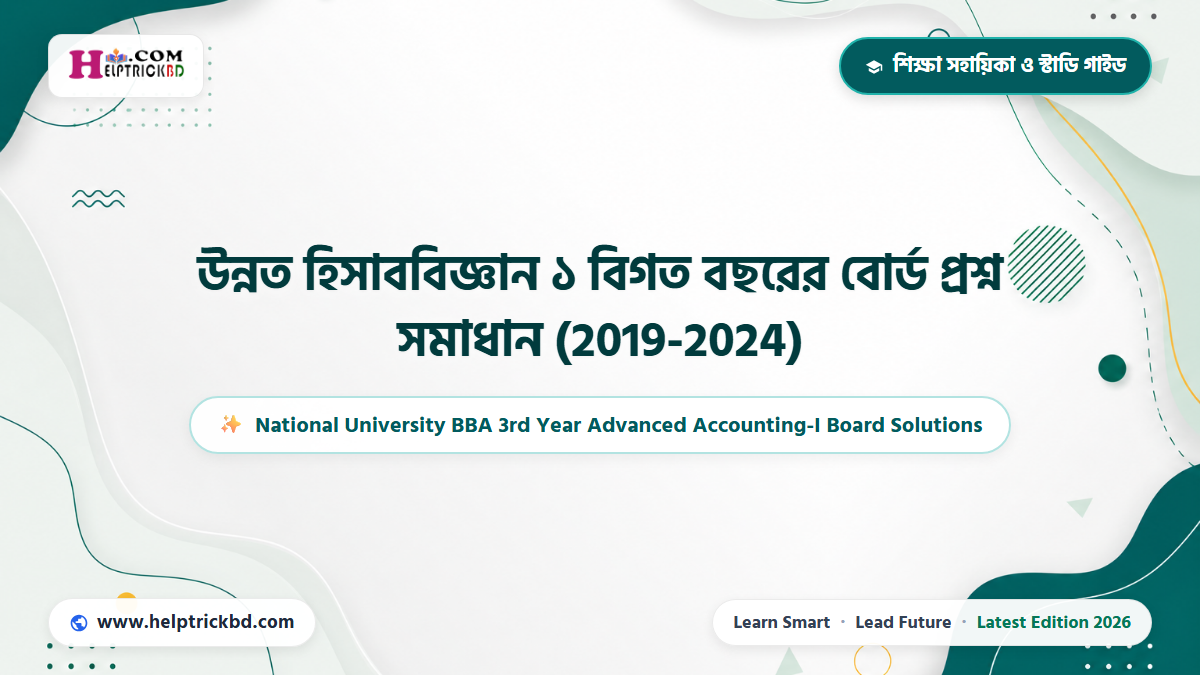
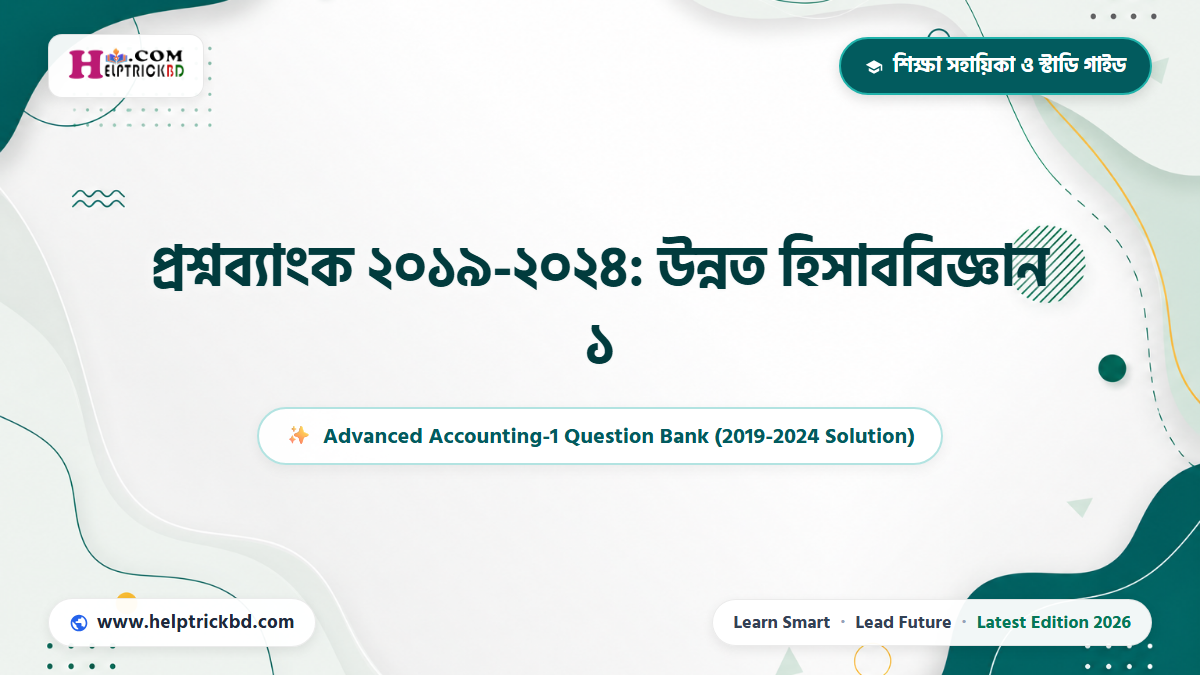
feat(seo): update Post 2 title to bilingual question bank with high-rank keyword cluster & deploy to WordPress

Changed region(s): [[0.1233, 0.3422, 0.8942, 0.4356], [0.185, 0.5911, 0.8325, 0.6844], [0.3083, 0.4667, 0.6783, 0.56]]

diff --git a/tools/post_builders/generate_adv_accounting_pair.py b/tools/post_builders/generate_adv_accounting_pair.py
@@ -991,9 +991,9 @@ def generate_post_2_board_questions():
     board_dir = os.path.join(PUB_BOOKS_BASE, "board")
     years = ["2024", "2023", "2022", "2021", "2020", "2019"]
     
-    focus_kw = "উন্নত হিসাববিজ্ঞান ১ বিগত বছরের বোর্ড প্রশ্ন"
-    seo_title = "উন্নত হিসাববিজ্ঞান ১ বিগত বছরের বোর্ড প্রশ্ন সমাধান (2019-2024): Best Solution Guide"
-    banner_url = "https://cdn.jsdelivr.net/gh/omarfarukitbd-spec/helptrickbdseo@main/assets/images/thumbnails/adv_accounting_1_board_banner.webp"
+    focus_kw = "প্রশ্নব্যাংক ২০১৯-২০২৪: উন্নত হিসাববিজ্ঞান ১"
+    seo_title = "প্রশ্নব্যাংক ২০১৯-২০২৪: উন্নত হিসাববিজ্ঞান ১ (Advanced Accounting 1 Question Bank 2026): Best Complete Solution"
+    banner_url = "https://www.helptrickbd.com/wp-content/uploads/2026/11/adv_accounting_1_board_banner-1.webp"
     
     all_years_data = []
     total_q_count = 0
@@ -1027,6 +1027,7 @@ def generate_post_2_board_questions():
     for y in all_years_data:
         anchor_id = f"board-{y['year']}"
         toc_links.append(f'<li><a href="#{anchor_id}">জাতীয় বিশ্ববিদ্যালয় {y["year"]} সালের প্রশ্ন ও সমাধান ({y["count"]}টি প্রশ্ন)</a></li>')
+    toc_links.append('<li><a href="#nu-search-keywords">জাতীয় বিশ্ববিদ্যালয় প্রশ্নব্যাংক: গুগল শীর্ষ সার্চ কোয়েরি ও টপিক ক্লাস্টার</a></li>')
     toc_links.append('<li><a href="#board-analysis-tips">বোর্ড পরীক্ষার প্রশ্ন পুনরাবৃত্তি (Question Pattern Analysis) ও এ-প্লাস কৌশল</a></li>')
     toc_links.append('<li><a href="#faq-section">সচরাচর জিজ্ঞাসিত প্রশ্নোত্তর (FAQ)</a></li>')
     
@@ -1118,8 +1119,8 @@ def generate_post_2_board_questions():
     # PDF Download Card
     pdf_card_html = f"""<div class="htbd-download-card">
   <div style="flex: 1; min-width: 260px;">
-    <h4 style="margin: 0 0 6px 0; color: #0b2046; font-size: 18.5px; font-weight: 700;">[বোর্ড প্রশ্নব্যাংক] উন্নত হিসাববিজ্ঞান ১ বিগত ৬ বছরের সমাধান PDF</h4>
-    <p style="margin: 0; color: #475569; font-size: 14.5px; line-height: 1.6;">জাতীয় বিশ্ববিদ্যালয়ের ২০১৯ থেকে ২০২৪ সাল পর্যন্ত সকল সেশনের ক, খ ও গ বিভাগের ১৬৮টি প্রশ্ন ও গাণিতিক ব্যাখ্যার অফিশিয়াল প্রিন্টেবল PDF (২.৪২ MB)।</p>
+    <h4 style="margin: 0 0 6px 0; color: #0b2046; font-size: 18.5px; font-weight: 700;">[প্রশ্নব্যাংক PDF] {focus_kw} (2019-2024 Full Solution)</h4>
+    <p style="margin: 0; color: #475569; font-size: 14.5px; line-height: 1.6;">জাতীয় বিশ্ববিদ্যালয়ের ২০১৯ থেকে ২০২৪ সাল পর্যন্ত বিগত ৬ বছরের ক, খ ও গ বিভাগের ১৬৮টি প্রশ্ন ও গাণিতিক ব্যাখ্যার অফিশিয়াল প্রিন্ট-উপযোগী PDF (২.৪২ MB)।</p>
   </div>
   <a href="{PDF_BOARD_URL}" target="_blank" rel="noopener noreferrer" class="htbd-download-btn">
     [ডাউনলোড] বিগত ৬ বছরের বোর্ড সমাধান PDF সংগ্রহ করুন
@@ -1128,23 +1129,27 @@ def generate_post_2_board_questions():
 
     # Cross-link to Chapter Suggestion
     crosslink_card_html = f"""<div class="htbd-crosslink-card">
-  <h4 style="margin: 0 0 8px 0; color: #1e3a8a; font-size: 18px; font-weight: 700;">[চূড়ান্ত অধ্যায়ভিত্তিক সাজেশন] সিলেবাসের সকল অধ্যায়ের প্রস্তুতি চান?</h4>
+  <h4 style="margin: 0 0 8px 0; color: #1e3a8a; font-size: 18px; font-weight: 700;">[অধ্যায়ভিত্তিক চূড়ান্ত সাজেশন] সিলেবাসের সকল অধ্যায়ের পূর্ণাঙ্গ প্রস্তুতি চান?</h4>
   <p style="margin: 0 0 12px 0; color: #334155; font-size: 15.5px; line-height: 1.7;">জাতীয় বিশ্ববিদ্যালয়ের সংশোধিত সিলেবাস অনুযায়ী সম্পূর্ণ ৭টি অধ্যায়ের ৩২০টি বাছাইকৃত প্রশ্ন ও নির্ভুল গাণিতিক সমাধানের জন্য পড়ুন আমাদের মূল সাজেশন গাইড:</p>
   <a href="{URL_SUGGESTION_POST}" style="color: #1d4ed8; font-weight: 700; text-decoration: underline; font-size: 16px;">[এখানে ক্লিক করুন] জাতীয় বিশ্ববিদ্যালয় অনার্স ৩য় বর্ষ উন্নত হিসাববিজ্ঞান ১ অধ্যায়ভিত্তিক পূর্ণাঙ্গ সাজেশন 2026</a>
 </div>"""
 
     faq_items = [
         {
-            "q": "উন্নত হিসাববিজ্ঞান ১ পরীক্ষায় বিগত বছরের বোর্ড প্রশ্ন থেকে কত শতাংশ কমন আসে?",
-            "a": "জাতীয় বিশ্ববিদ্যালয়ের হিসাববিজ্ঞান বিভাগে বিগত ৫-৬ বছরের বোর্ড প্রশ্ন সমাধান করলে প্রায় ৬০% থেকে ৭০% প্রশ্ন সরাসরি বা সমজাতীয় নিয়মে কমন পাওয়া যায়। বিশেষ করে ক-বিভাগে প্রায় ৮০% প্রশ্ন পূর্ববর্তী সালের প্রশ্নাবলি থেকেই পুনরাবৃত্তি ঘটে।"
+            "q": "প্রশ্নব্যাংক ২০১৯-২০২৪: উন্নত হিসাববিজ্ঞান ১ থেকে জাতীয় বিশ্ববিদ্যালয় ফাইনাল পরীক্ষায় কত শতাংশ প্রশ্ন কমন আসে?",
+            "a": "বিগত ৬ বছরের বোর্ড প্রশ্ন গভীরভাবে পর্যালোচনা করলে দেখা যায়, প্রতি বছর ক-বিভাগে প্রায় ৮০% থেকে ৯০% অতি সংক্ষিপ্ত প্রশ্ন পূর্ববর্তী সালের প্রশ্নব্যাংক থেকেই হুবহু পুনরাবৃত্তি হয়। এছাড়া খ ও গ বিভাগের গাণিতিক সমস্যাগুলোতে প্রায় ৬০% থেকে ৭০% অংক বিগত সালের একই ফরম্যাট ও নিয়মে টাকার অংক বা নাম পরিবর্তন করে পরীক্ষায় আসে।"
         },
         {
-            "q": "বোর্ড পরীক্ষার অংকের ক্ষেত্রে কোন বিষয়গুলোতে সতর্ক থাকা জরুরি?",
-            "a": "স্টক ডিভিডেন্ড, লিজ একাউন্টিং ও ব্যালেন্স শিটের অংকগুলোতে টাকার অংক বা তারিখের পরিবর্তন হলেও মূল জাবেদা ও আন্তর্জাতিক হিসাবমানের নিয়ম অপরিবর্তিত থাকে। তাই মুখস্থ না করে প্রতিটি অংকের গণনাকার্য (Working Notes) আয়ত্ত করা শ্রেয়।"
+            "q": "Advanced Accounting 1 Question Bank 2026-এর বড় গাণিতিক সমস্যাগুলোর গণনাকার্য (Working Notes) কি দেওয়া আছে?",
+            "a": "হ্যাঁ, HelpTrickBD-এর এই প্রশ্নব্যাংকে প্রতিটি গাণিতিক সমস্যার জন্য প্রয়োজনীয় জাবেদা, ছক ও খসড়া গণনাকার্য (Working Notes) প্রতিটি ধাপ অনুযায়ী পৃথকভাবে প্রদান করা হয়েছে, যেন শিক্ষার্থীরা পরীক্ষার খাতায় শতভাগ নির্ভুলভাবে সমাধান করে পূর্ণ নম্বর অর্জন করতে পারেন।"
         },
         {
-            "q": "এই বোর্ড সমাধানগুলো কোন কোন সালের পরীক্ষার অন্তর্ভুক্ত?",
-            "a": "এখানে ২০১৯, ২০২০, ২০২১, ২০২২, ২০২৩ এবং সর্বশেষ অনুষ্ঠিত ২০২৪ সালের পরীক্ষার ক, খ ও গ বিভাগের ১৬৮টি প্রশ্নের পূর্ণাঙ্গ ও নির্ভুল সমাধান অন্তর্ভুক্ত রয়েছে।"
+            "q": "প্রশ্নব্যাংক ২০১৯-২০২৪: উন্নত হিসাববিজ্ঞান ১-এর অফিশিয়াল PDF ফাইল কীভাবে ফ্রিতে ডাউনলোড করব?",
+            "a": "পোস্টের উপরে ও নিচে দেওয়া '[ডাউনলোড] বিগত ৬ বছরের বোর্ড সমাধান PDF সংগ্রহ করুন' বাটনে ক্লিক করলেই ১৬৮টি প্রশ্নের পূর্ণাঙ্গ ও প্রিন্ট-উপযোগী অফিশিয়াল PDF সরাসরি বিনামূল্যে গুগল ড্রাইভ / মিডিয়া সার্ভার থেকে ডাউনলোড করা যাবে।"
+        },
+        {
+            "q": "জাতীয় বিশ্ববিদ্যালয় অনার্স ৩য় বর্ষ হিসাববিজ্ঞান বিভাগের অন্যান্য বিষয়ের প্রশ্নব্যাংক ও সাজেশন কোথায় পাওয়া যাবে?",
+            "a": "আমাদের ওয়েবসাইটের 'শিক্ষা সহায়িকা ও স্টাডি গাইড' এবং 'NU Question Bank' ক্যাটাগরিতে নিরীক্ষা ও নিশ্চয়তা, উৎপাদন ব্যয় হিসাববিজ্ঞান, ব্যবস্থাপনা হিসাববিজ্ঞানসহ সকল বিষয়ের অধ্যায়ভিত্তিক পূর্ণাঙ্গ সাজেশন ও বিগত বছরের প্রশ্ন সমাধান পেয়ে যাবেন।"
         }
     ]
 
@@ -1176,7 +1181,7 @@ def generate_post_2_board_questions():
         "@context": "https://schema.org",
         "@type": "BlogPosting",
         "headline": seo_title,
-        "description": f"{focus_kw} সমাধান (2019-2024): জাতীয় বিশ্ববিদ্যালয় অনার্স ৩য় বর্ষ হিসাববিজ্ঞানের ১৬৮টি প্রশ্ন ও গাণিতিক সমাধান।",
+        "description": f"{focus_kw} (Advanced Accounting 1 Question Bank 2026): জাতীয় বিশ্ববিদ্যালয় BBA অনার্স ৩য় বর্ষ হিসাববিজ্ঞানের বিগত ৬ বছরের ১৬৮টি বোর্ড প্রশ্ন ও গাণিতিক সমাধান।",
         "image": banner_url,
         "author": {
             "@type": "Person",
@@ -1199,9 +1204,9 @@ def generate_post_2_board_questions():
 
     full_html = f"""<!-- Byte-0 Hero Banner Placement -->
 <figure class="htbd-featured-hero" style="margin: 0 0 25px 0; text-align: center;">
-  <img src="{banner_url}" alt="{focus_kw}" title="{seo_title}" style="width: 100%; max-width: 1000px; height: auto; border-radius: 12px; box-shadow: 0 5px 20px rgba(0,0,0,0.12); display: block; margin: 0 auto;" loading="eager" width="1200" height="675" />
+  <img src="{banner_url}" alt="{focus_kw} (Advanced Accounting 1 Question Bank)" title="{seo_title}" style="width: 100%; max-width: 1000px; height: auto; border-radius: 12px; box-shadow: 0 5px 20px rgba(0,0,0,0.12); display: block; margin: 0 auto;" loading="eager" width="1200" height="675" />
   <figcaption style="font-family: 'SolaimanLipi', sans-serif; font-size: 14px; color: #64748b; margin-top: 8px; text-align: center;">
-    জাতীয় বিশ্ববিদ্যালয় অনার্স ৩য় বর্ষ উন্নত হিসাববিজ্ঞান-১ বিগত ৬ বছরের বোর্ড প্রশ্ন সমাধান (2019-2024) | প্রকাশনা: HelpTrickBD
+    জাতীয় বিশ্ববিদ্যালয় BBA অনার্স ৩য় বর্ষ {focus_kw} (Advanced Accounting 1 Question Bank 2026) | প্রকাশনা: HelpTrickBD
   </figcaption>
 </figure>
 
@@ -1211,27 +1216,107 @@ def generate_post_2_board_questions():
 
   <!-- Breadcrumb & Topic Metadata -->
   <div style="font-size: 13.5px; color: #64748b; margin-bottom: 20px;">
-    হোম / শিক্ষা ও সাজেশন / অনার্স ৩য় বর্ষ / <strong>উন্নত হিসাববিজ্ঞান ১ বোর্ড প্রশ্ন সমাধান</strong> (কোর্স কোড: 232503)
+    হোম / শিক্ষা ও সাজেশন / অনার্স ৩য় বর্ষ / <strong>{focus_kw}</strong> (কোর্স কোড: 232503)
   </div>
 
   <!-- Position 0 Quick Answer Box -->
   <div class="htbd-hero-box">
-    <h3 style="margin-top: 0; color: #065f46; font-size: 19px;">[বোর্ড ওভারভিউ] একনজরে {focus_kw} সমাধান (2019-2024)</h3>
-    <p><strong>{focus_kw}</strong> খুঁজছেন এমন জাতীয় বিশ্ববিদ্যালয়ের শিক্ষার্থীদের জন্য এটি একটি নির্ভরযোগ্য ও প্রামাণ্য ডিজিটাল সমাধান ভাণ্ডার। জাতীয় বিশ্ববিদ্যালয়ের ২০১৯, ২০২০, ২০২১, ২০২২, ২০২৩ এবং ২০২৪ সালের চূড়ান্ত পরীক্ষায় আসা মোট <strong>{total_q_count}টি বোর্ড প্রশ্ন ও নির্ভুল গাণিতিক সমাধান</strong> এখানে সংকলিত হয়েছে।</p>
-    <p>সংকলনটিতে ক-বিভাগের <strong>{total_sec_counts['ক']}টি অতি সংক্ষিপ্ত প্রশ্ন</strong>, খ-বিভাগের <strong>{total_sec_counts['খ']}টি সংক্ষিপ্ত ও গাণিতিক সমস্যা</strong> এবং গ-বিভাগের <strong>{total_sec_counts['গ']}টি বিশ্লেষণধর্মী ও বড় অংকের</strong> পুঙ্খানুপুঙ্খ সমাধান রয়েছে।</p>
+    <h3 style="margin-top: 0; color: #065f46; font-size: 19px;">[প্রশ্নব্যাংক ওভারভিউ] একনজরে {focus_kw} (2019-2024 Solution)</h3>
+    <p><strong>{focus_kw}</strong> (Advanced Accounting 1 Question Bank 2026) খুঁজছেন এমন জাতীয় বিশ্ববিদ্যালয়ের BBA অনার্স ৩য় বর্ষের হিসাববিজ্ঞান বিভাগের শিক্ষার্থীদের জন্য এটি একটি নির্ভরযোগ্য ও প্রামাণ্য ডিজিটাল সমাধান ভাণ্ডার। জাতীয় বিশ্ববিদ্যালয়ের ২০১৯, ২০২০, ২০২১, ২০২২, ২০২৩ এবং সর্বশেষ ২০২৪ সালের চূড়ান্ত পরীক্ষায় আসা মোট <strong>{total_q_count}টি বোর্ড প্রশ্ন ও নির্ভুল গাণিতিক সমাধান</strong> এখানে প্রতিটি বিষয়ের সঠিক ওয়ার্কিং নোটসসহ সংকলিত হয়েছে।</p>
+    <p>সংকলনটিতে ক-বিভাগের <strong>{total_sec_counts['ক']}টি অতি সংক্ষিপ্ত প্রশ্ন</strong>, খ-বিভাগের <strong>{total_sec_counts['খ']}টি সংক্ষিপ্ত ও গাণিতিক সমস্যা</strong> এবং গ-বিভাগের <strong>{total_sec_counts['গ']}টি বিশ্লেষণধর্মী ও বড় অংকের</strong> পুঙ্খানুপুঙ্খ সমাধান রয়েছে। সমাধান দেখতে প্রতিটি প্রশ্নের নিচের [উত্তর / সমাধান দেখুন] বাটনে ক্লিক করুন।</p>
   </div>
 
   <!-- Mandatory Jump Break for Archive Summary -->
   <!--more-->
 
-  <p>জাতীয় বিশ্ববিদ্যালয়ের BBA অনার্স ৩য় বর্ষের হিসাববিজ্ঞান বিভাগের সবচেয়ে গুরুত্বপূর্ণ ব্যবহারিক বিষয় হলো <strong>উন্নত হিসাববিজ্ঞান-১ (Advanced Accounting-I - Course Code: 232503)</strong>। পরীক্ষায় এ-প্লাস (A+) নিশ্চিত করতে পূর্ববর্তী বছরগুলোর প্রশ্ন প্যাটার্ন আয়ত্ত করার কোনো বিকল্প নেই। হিসাববিজ্ঞান বিভাগের অধ্যায়ভিত্তিক চূড়ান্ত সাজেশনের জন্য পড়ুন আমাদের <a href="{URL_SUGGESTION_POST}">অনার্স ৩য় বর্ষ উন্নত হিসাববিজ্ঞান ১ সাজেশন 2026</a>।</p>
-  <p>শিক্ষার্থীদের রিভিশনকে সহজ ও ত্রুটিমুক্ত করতে HelpTrickBD প্রস্তুত করেছে দেশের সর্বাধিক নিখুঁত <strong>উন্নত হিসাববিজ্ঞান ১ বিগত বছরের বোর্ড প্রশ্ন সমাধান (2019-2024)</strong>। এখানে ২০১৯ সাল থেকে শুরু করে সর্বশেষ ২০২৪ সালের পরীক্ষার প্রতিটি প্রশ্নের সমাধান পর্যায়ক্রমে তুলে ধরা হলো।</p>
+  <p>জাতীয় বিশ্ববিদ্যালয়ের BBA অনার্স ৩য় বর্ষের হিসাববিজ্ঞান বিভাগের শিক্ষার্থীদের জন্য সবচেয়ে বেশি গাণিতিক চ্যালেঞ্জপূর্ণ ও সর্বোচ্চ নম্বর নির্ধারক ব্যবহারিক বিষয় হলো <strong>উন্নত হিসাববিজ্ঞান-১ (Advanced Accounting-I - Course Code: 232503)</strong>। পরীক্ষায় ফার্স্ট ক্লাস ও নিশ্চিত এ-প্লাস (A+) অর্জনের জন্য পূর্ববর্তী বছরগুলোর প্রশ্ন প্যাটার্ন ও জাতীয় বিশ্ববিদ্যালয়ের বোর্ড প্রশ্ন সমাধান আয়ত্ত করার কোনো বিকল্প নেই। অনার্স ৩য় বর্ষ হিসাববিজ্ঞানের সম্পূর্ণ অধ্যায়ভিত্তিক সাজেশন ও মডেল টেস্টের জন্য পড়ুন আমাদের <a href="{URL_SUGGESTION_POST}">অনার্স ৩য় বর্ষ উন্নত হিসাববিজ্ঞান ১ সাজেশন 2026</a>।</p>
+  <p>শিক্ষার্থীদের বিগত ৬ বছরের পরীক্ষার প্রস্তুতিকে সহজ, নির্ভুল ও সময়োপযোগী করতে HelpTrickBD প্রস্তুত করেছে দেশের সর্বাধিক মানসম্মত <strong>{focus_kw} (Advanced Accounting 1 Question Bank 2026)</strong>। এখানে ২০১৯ সাল থেকে শুরু করে সর্বশেষ ২০২৪ সালের পরীক্ষার ক, খ ও গ বিভাগের প্রতিটি প্রশ্নের পুঙ্খানুপুঙ্খ সমাধান ও গণনাকার্য ধাপে ধাপে উপস্থাপন করা হলো।</p>
 
   {pdf_card_html}
 
   {crosslink_card_html}
 
   {toc_html}
+
+  <div id="nu-search-keywords">
+    <h2>জাতীয় বিশ্ববিদ্যালয় অনার্স ৩য় বর্ষ প্রশ্নব্যাংক: গুগল শীর্ষ সার্চ কোয়েরি ও টপিক ক্লাস্টার</h2>
+    <p>জাতীয় বিশ্ববিদ্যালয়ের BBA অনার্স ৩য় বর্ষের শিক্ষার্থীরা পরীক্ষার প্রস্তুতি ও রিভিশনের সময় গুগলে যে সকল হাই-র্যাংকিং কি-ওয়ার্ড ও অনুসন্ধান কোয়েরি সবচেয়ে বেশি সার্চ করেন, তার একটি প্রামাণ্য বিশ্লেষণ নিচে তুলে ধরা হলো। এই প্রশ্নব্যাংকে প্রতিটি সার্চ কোয়েরির বিপরীতে পূর্ণাঙ্গ সমাধান ও গাণিতিক ব্যাখ্যা দেওয়া হয়েছে:</p>
+
+    <div class="htbd-table-wrapper">
+      <table class="htbd-styled-table">
+        <thead>
+          <tr>
+            <th>শিক্ষার্থীদের শীর্ষ সার্চ কোয়েরি (Search Queries)</th>
+            <th>মূল অধ্যায় ও আলোচিত বিষয়বস্তু (Topic Cluster)</th>
+            <th>প্রশ্ন সংখ্যা ও বিভাগ</th>
+            <th>পরীক্ষার গুরুত্ব ও কমন সম্ভাবনা</th>
+          </tr>
+        </thead>
+        <tbody>
+          <tr>
+            <td><strong>উন্নত হিসাববিজ্ঞান ১ বিগত বছরের বোর্ড প্রশ্ন সমাধান (2019-2024)</strong></td>
+            <td>জাতীয় বিশ্ববিদ্যালয়ের ২০১৯ থেকে ২০২৪ সাল পর্যন্ত ৬টি শিক্ষাবর্ষের সকল প্রশ্নপত্র ও পূর্ণাঙ্গ সমাধান।</td>
+            <td>১৬৮টি প্রশ্ন (ক, খ, গ বিভাগ)</td>
+            <td><span class="htbd-badge-star golden">[১০০% প্রামাণ্য সল্যুশন]</span></td>
+          </tr>
+          <tr>
+            <td><strong>Advanced Accounting 1 Question Bank 2026 Solution PDF</strong></td>
+            <td>National University BBA 3rd Year Accounting Department Previous Years Questions with Working Notes.</td>
+            <td>Full 6 Years (2019-2024)</td>
+            <td><span class="htbd-badge-star golden">[টপ সার্চ ভলিউম]</span></td>
+          </tr>
+          <tr>
+            <td><strong>অনার্স ৩য় বর্ষ উন্নত হিসাববিজ্ঞান ১ ক বিভাগ অতি সংক্ষিপ্ত প্রশ্নব্যাংক</strong></td>
+            <td>সংজ্ঞা, বৈশিষ্ট্য, পার্থক্য, IFRS/IAS নীতিমালা ও সংক্ষিপ্ত সমীকরণভিত্তিক প্রশ্নাবলি।</td>
+            <td>৭২টি অতি সংক্ষিপ্ত প্রশ্ন</td>
+            <td><span class="htbd-badge-star super">[১০ এ ১০ নম্বর কমন]</span></td>
+          </tr>
+          <tr>
+            <td><strong>স্টকহোল্ডার্স ইকুইটি জাবেদা ও ছক সমাধান (Stockholders' Equity)</strong></td>
+            <td>Common Stock, Preferred Stock, Stock Dividends, Cash Dividends, Treasury Stock ও Retained Earnings Statement.</td>
+            <td>খ ও গ বিভাগের অংক</td>
+            <td><span class="htbd-badge-star golden">[১৫-২০ নম্বর নিশ্চিত]</span></td>
+          </tr>
+          <tr>
+            <td><strong>ইজারা বা লিজ হিসাববিজ্ঞান জাবেদা ও অ্যামরটাইজেশন টেবিল (Lease Accounting)</strong></td>
+            <td>Finance Lease vs Operating Lease, Lessee and Lessor Accounting, Guaranteed Residual Value ও ছক।</td>
+            <td>খ ও গ বিভাগের অংক</td>
+            <td><span class="htbd-badge-star golden">[১৪-১৮ নম্বর নিশ্চিত]</span></td>
+          </tr>
+          <tr>
+            <td><strong>কোম্পানির আর্থিক বিবরণী বিশদ আয় বিবরণী ও ব্যালেন্স শিট</strong></td>
+            <td>Comprehensive Income Statement, Classified Balance Sheet, Cost of Goods Sold ও সমন্বয় দাখিলা।</td>
+            <td>গ বিভাগের বড় অংক</td>
+            <td><span class="htbd-badge-star golden">[১০ নম্বর গ্যারান্টিড]</span></td>
+          </tr>
+          <tr>
+            <td><strong>রেভিনিউ রিকগনিশন ও চুক্তি হিসাববিজ্ঞান (Revenue Recognition)</strong></td>
+            <td>IFRS 15 Five-Step Model, Percentage of Completion Method ও Completed Contract Method.</td>
+            <td>খ ও গ বিভাগের অংক</td>
+            <td><span class="htbd-badge-star super">[খ/গ বিভাগে কমন]</span></td>
+          </tr>
+          <tr>
+            <td><strong>হিসাববিজ্ঞান পরিবর্তন ও ভুল সংশোধন (Accounting Changes & Errors)</strong></td>
+            <td>Change in Accounting Principle, Change in Accounting Estimate, Error Analysis ও পূর্ববর্তী সমন্বয়।</td>
+            <td>খ ও গ বিভাগের বিশ্লেষণ</td>
+            <td><span class="htbd-badge-star super">[নিয়মিত বোর্ড প্রশ্ন]</span></td>
+          </tr>
+          <tr>
+            <td><strong>অপারেটিং সেগমেন্ট ও অন্তর্বর্তীকালীন প্রতিবেদন (Operating Segments)</strong></td>
+            <td>10% Significance Test (Revenue, Profit/Loss, Assets), 75% Consolidated Revenue Test ও Disclosure.</td>
+            <td>খ ও গ বিভাগের অংক</td>
+            <td><span class="htbd-badge-star regular">[পরীক্ষায় বারবার আসা]</span></td>
+          </tr>
+          <tr>
+            <td><strong>দেউলিয়া ও অবসায়ন হিসাববিজ্ঞান (Bankruptcy & Liquidation)</strong></td>
+            <td>Statement of Affairs, Deficiency Account, Secured vs Unsecured Creditors ও লিকুইডেশন হিসাব।</td>
+            <td>গ বিভাগের গাণিতিক সমস্যা</td>
+            <td><span class="htbd-badge-star regular">[গুরুত্বপূর্ণ বোর্ড টপিক]</span></td>
+          </tr>
+        </tbody>
+      </table>
+    </div>
+  </div>
 
   <h2>জাতীয় বিশ্ববিদ্যালয় বিগত ৬ বছরের পরীক্ষার প্রশ্ন প্যাটার্ন ও মানবণ্টন বিশ্লেষণ</h2>
   <p>জাতীয় বিশ্ববিদ্যালয়ের লিখিত পরীক্ষায় মোট ৮০ নম্বরের প্রশ্নপত্র থাকে। বিগত ৬ বছরের বোর্ড প্রশ্ন বিশ্লেষণে দেখা যায় যে প্রশ্ন কাঠামোর ধারাবাহিকতা নিচের নিয়মে আবর্তিত হয়:</p>

diff --git a/tools/deploy_adv_accounting_pair.py b/tools/deploy_adv_accounting_pair.py
@@ -72,10 +72,10 @@ def deploy_pair():
     with open(p2_html_path, "r", encoding="utf-8") as f:
         p2_content = f.read()
         
-    p2_title = "উন্নত হিসাববিজ্ঞান ১ বিগত বছরের বোর্ড প্রশ্ন সমাধান (2019-2024): Best Solution Guide"
+    p2_title = "প্রশ্নব্যাংক ২০১৯-২০২৪: উন্নত হিসাববিজ্ঞান ১ (Advanced Accounting 1 Question Bank 2026): Best Complete Solution"
     p2_slug = "honours-3rd-year-advanced-accounting-1-board-questions"
-    p2_focus_kw = "উন্নত হিসাববিজ্ঞান ১ বিগত বছরের বোর্ড প্রশ্ন"
-    p2_meta_desc = "উন্নত হিসাববিজ্ঞান ১ বিগত বছরের বোর্ড প্রশ্ন সমাধান (2019-2024): জাতীয় বিশ্ববিদ্যালয় BBA অনার্স ৩য় বর্ষের ১৬৮টি প্রশ্ন ও গাণিতিক সমাধান।"
+    p2_focus_kw = "প্রশ্নব্যাংক ২০১৯-২০২৪: উন্নত হিসাববিজ্ঞান ১"
+    p2_meta_desc = "প্রশ্নব্যাংক ২০১৯-২০২৪: উন্নত হিসাববিজ্ঞান ১ (Advanced Accounting 1): জাতীয় বিশ্ববিদ্যালয় BBA ৩য় বর্ষের ১৬৮টি বোর্ড প্রশ্ন ও সমাধান।"
     
     existing_check = pub.client.get("posts", params={"slug": p2_slug, "status": "any"})
     if existing_check.status_code == 200 and existing_check.json():
@@ -87,11 +87,11 @@ def deploy_pair():
             title=p2_title,
             content=p2_content,
             categories=[4, 9, 127],
-            featured_media=16004,
+            featured_media=16011,
             meta={
                 "rank_math_title": p2_title,
                 "rank_math_description": p2_meta_desc,
-                "rank_math_focus_keyword": f"{p2_focus_kw}, Advanced Accounting 1 Board Questions",
+                "rank_math_focus_keyword": f"{p2_focus_kw}, Advanced Accounting 1 Question Bank, উন্নত হিসাববিজ্ঞান ১ বিগত বছরের বোর্ড প্রশ্ন, অনার্স ৩য় বর্ষ প্রশ্নব্যাংক",
                 "rank_math_robots": "index, follow, max-snippet:-1, max-video-preview:-1, max-image-preview:large"
             }
         )
@@ -105,7 +105,7 @@ def deploy_pair():
             slug=p2_slug,
             categories=[4, 9, 127],
             status="draft",
-            featured_media_id=16004,
+            featured_media_id=16011,
             seo_meta={
                 "title": p2_title,
                 "seo_title": p2_title,
